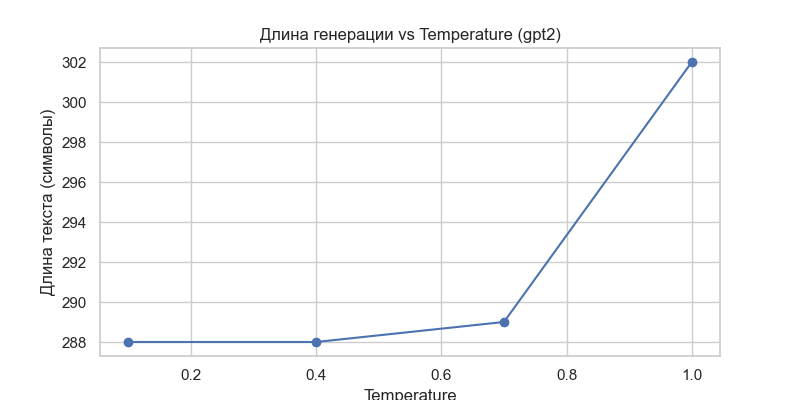
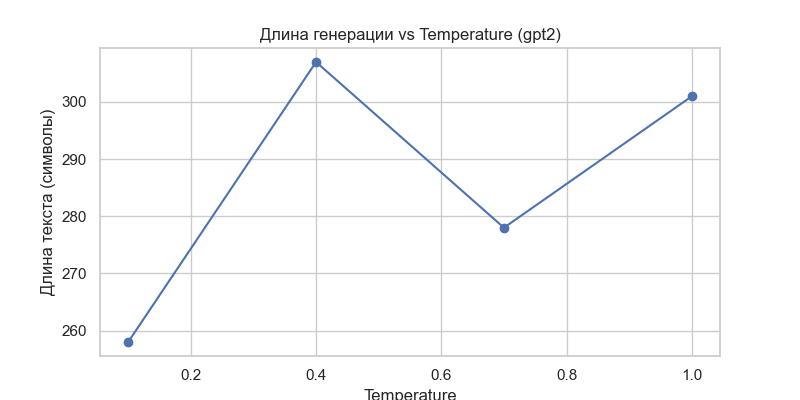
first commit

diff --git a/README.md b/README.md
@@ -135,7 +135,83 @@ def generate_text(self, prompt, **kwargs):
 - Визуализация результатов экспериментов
 - Статус загрузки и использования моделей
 
-### 7. Рекомендации по использованию
+### 7 Результаты эксперимента: Влияние параметра Temperature на генерацию текста
+
+## Temperature = 0.1
+**Результат:**  
+The future of artificial intelligence is uncertain.
+
+**Анализ:**
+- Распределение вероятностей очень острое → почти всегда выбирается самый вероятный токен
+- Повторение стандартных, часто встречающихся фраз
+- Отсутствие креативности
+
+**Вывод:**
+- Максимальная предсказуемость
+- Высокая связность
+- Риск банальности и повторов
+
+---
+
+## Temperature = 0.4
+**Результат:**  
+…in the hands of the next generation of scientists…
+
+**Анализ:**
+- Пик распределения сохраняется, но редкие токены могут участвовать
+- Текст развивается логично, появляются более содержательные конструкции
+- Минимальные повторы, связность высокая
+
+**Вывод:**
+- Оптимальный режим для информативного текста
+- Баланс контроля и разнообразия
+- Минимальные галлюцинации
+
+---
+
+## Temperature = 0.7
+**Результат:**  
+…all about the future of business…
+
+**Анализ:**
+- Модель активно использует менее вероятные токены
+- Появляется переход между темами (AI → бизнес → компании → мир)
+- Текст становится «живым», появляются рассуждения
+
+**Вывод:**
+- Подходит для эссе, рассуждений, творческого текста
+- Высокая вариативность при сохранении связности
+- Иногда логика может расплываться, возможны неточности
+
+---
+
+## Temperature = 1.0
+**Результат:**  
+…now very possible," he said. Samantha Anderson, a research associate…
+
+**Анализ:**
+- Распределение почти равномерное, редкие токены часто выбираются
+- Модель генерирует имена и источники → галлюцинации
+- Логика нарушается, появляются неожиданные переходы
+
+**Вывод:**
+- Подходит для художественного и креативного текста
+- Высокий риск неверных фактов и бессвязных предложений
+- Достоверность ↓, креативность ↑
+
+---
+
+## Сравнительная таблица
+
+| Temperature | Поведение модели      | Наблюдаемое в тексте                  |
+|------------|---------------------|--------------------------------------|
+| 0.1        | Почти детерминированная | Повторы, клише                        |
+| 0.4        | Контролируемая       | Чёткая логика, развитие мысли         |
+| 0.7        | Сбалансированная     | Рассуждения, креативные переходы     |
+| 1.0        | Хаотичная           | Галлюцинации, имена и источники      |
+
+
+### 8. Рекомендации по использованию
 
 #### Для учебных целей:
 1. Начинать с distilgpt2 для быстрых экспериментов
@@ -147,14 +223,14 @@ def generate_text(self, prompt, **kwargs):
 2. Настраивать параметры под конкретную задачу
 3. Добавлять пост-обработку сгенерированного текста
 
-### 8. Возможные улучшения
+### 9. Возможные улучшения
 1. Добавление поддержки большего количества моделей
 2. Реализация бенчмарков для сравнения моделей
 3. Добавление метрик оценки качества генерации
 4. Поддержка потоковой генерации текста
 5. Интеграция с внешними API для расширенных возможностей
 
-### 9. Заключение
+### 10. Заключение
 Работа успешно демонстрирует принципы работы LLM и влияние различных параметров на генерацию текста. Реализованная программа позволяет наглядно исследовать:
 - Зависимость качества текста от сложности модели
 - Влияние Temperature на креативность
